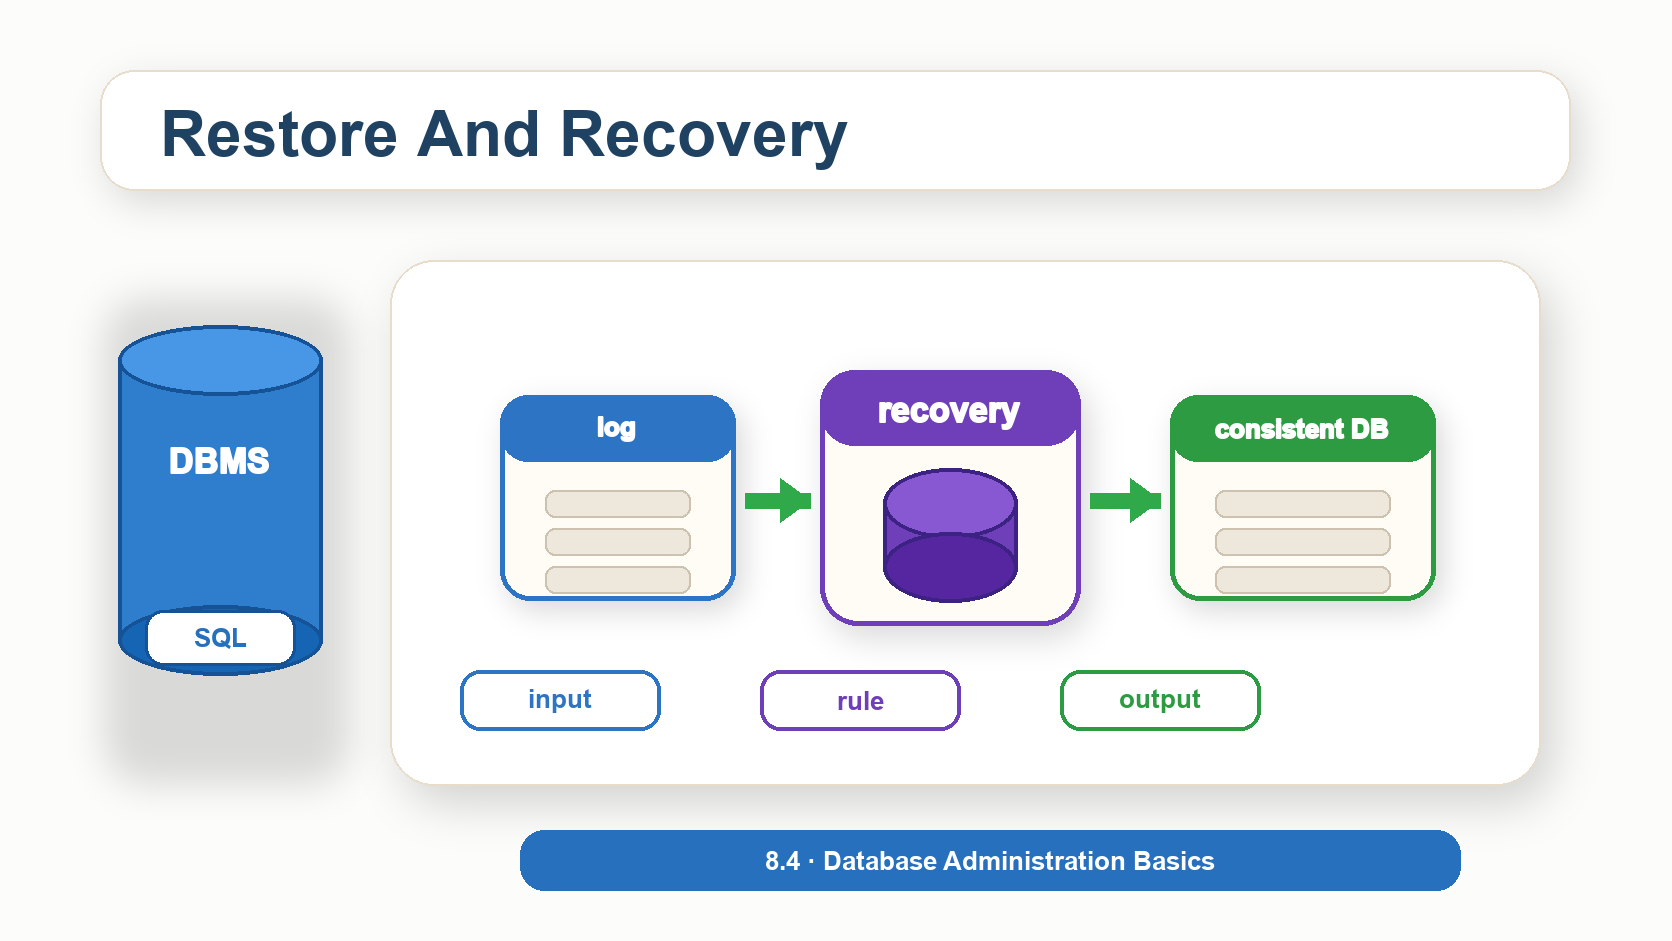
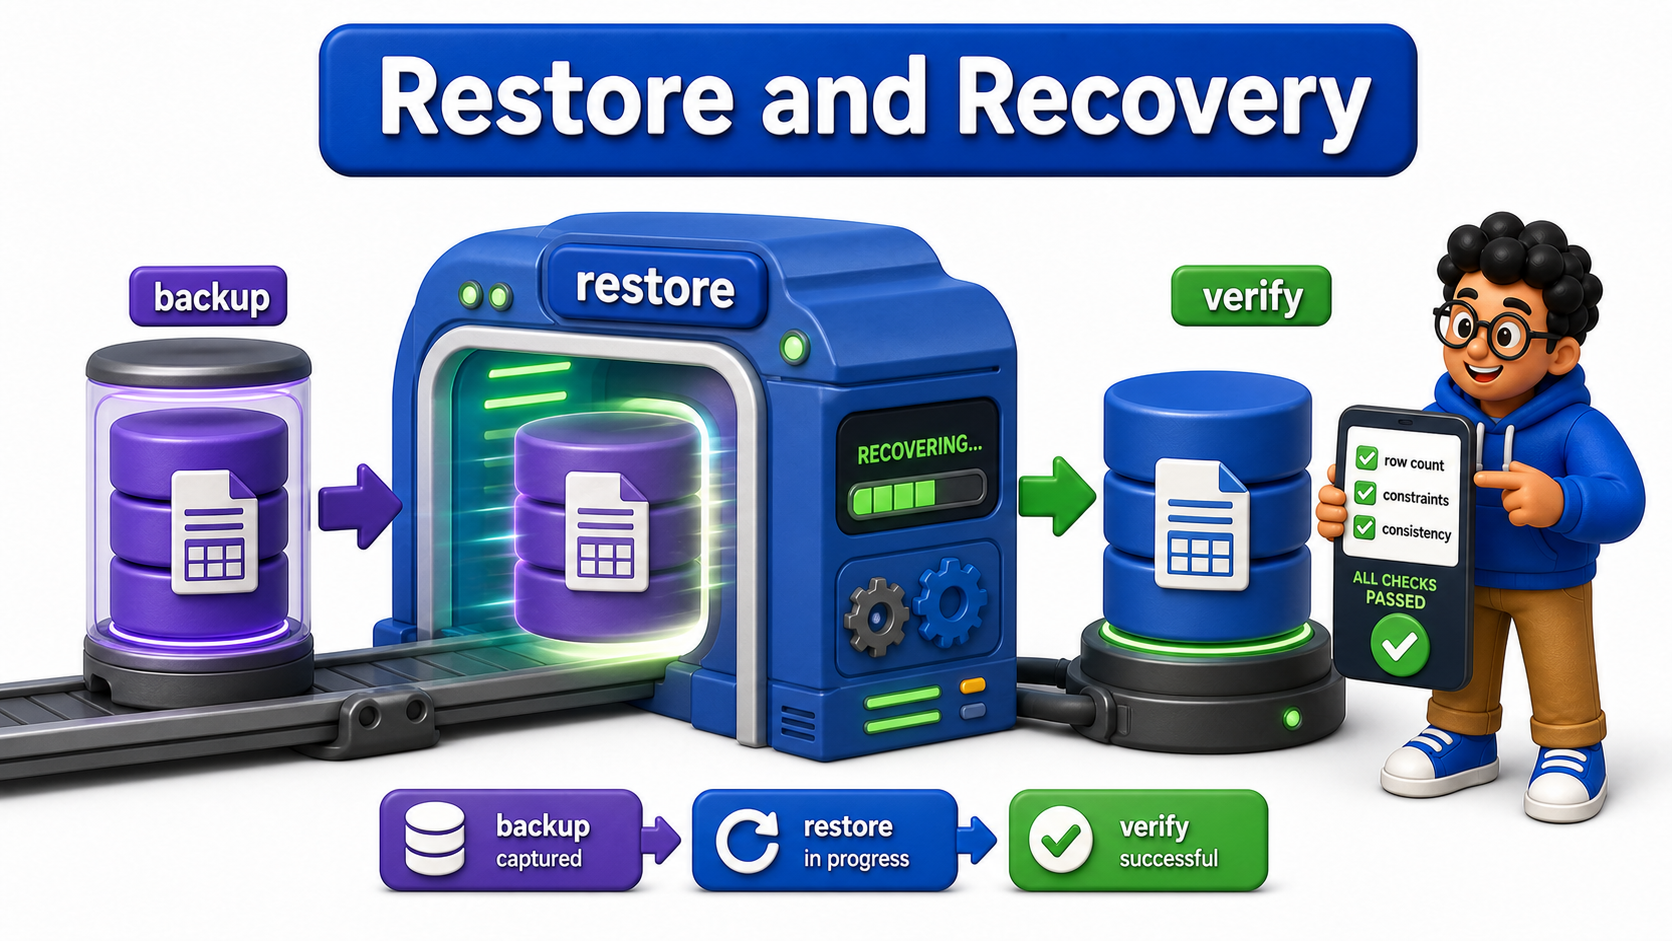
Replace unit 8.4 intro placeholders with actual 3D visuals

diff --git a/content/DBMS_Upload_Chapters/8.4 - Database Administration Basics/02_backup_strategies.md b/content/DBMS_Upload_Chapters/8.4 - Database Administration Basics/02_backup_strategies.md
@@ -6,7 +6,7 @@ The only real defense against losing data entirely is having a separate copy of 
 
 **Definition:** A backup strategy is the deliberate answer to how, how often, and where a database's data is copied somewhere safe, with logical backups like `pg_dump` offering portability and physical backups like `pg_basebackup` offering speed, and full versus incremental approaches trading simplicity against storage and time efficiency, all shaped by how much data loss is actually acceptable and how far back a `restore` might realistically need to reach.
 
-![Intro visual for backup strategies](https://s3.ap-south-1.amazonaws.com/static.bytexl.app/uploads/44sjn9mdv/content/images/02_intro_backup_strategies_clean_8f450529.png)
+![Intro visual for backup strategies](https://s3.ap-south-1.amazonaws.com/static.bytexl.app/uploads/44sjn9mdv/content/images/02_intro_backup_strategies_actual3d_58caf797.png)
 
 ## Logical Backups: A Portable Copy of the Data Itself
 

diff --git a/content/DBMS_Upload_Chapters/8.4 - Database Administration Basics/05_replication_and_read_replicas.md b/content/DBMS_Upload_Chapters/8.4 - Database Administration Basics/05_replication_and_read_replicas.md
@@ -6,7 +6,7 @@ A production system serving real, sustained traffic eventually outgrows what one
 
 **Definition:** Replication streams a primary database's `write-ahead log` to one or more replicas, which replay it to stay continuously in sync, enabling both read scaling, directing tolerant read traffic away from the primary, and availability, standing ready to take over if the primary fails, at the cost of a small, measurable lag that every application using a replica has to account for.
 
-![Intro visual for replication and read replicas](https://s3.ap-south-1.amazonaws.com/static.bytexl.app/uploads/44sjn9mdv/content/images/05_intro_replication_and_read_replicas_clean_20502d58.png)
+![Intro visual for replication and read replicas](https://s3.ap-south-1.amazonaws.com/static.bytexl.app/uploads/44sjn9mdv/content/images/05_intro_replication_and_read_replicas_actual3d_1d3ac4b5.png)
 
 ## How Streaming Replication Works, Conceptually
 

diff --git a/content/DBMS_Upload_Chapters/8.4 - Database Administration Basics/01_database_maintenance.md b/content/DBMS_Upload_Chapters/8.4 - Database Administration Basics/01_database_maintenance.md
@@ -8,7 +8,7 @@ Left unmanaged, this leftover space accumulates, and **database maintenance** is
 
 **Definition:** Because PostgreSQL keeps old row versions around to support concurrent, isolated reads, routine maintenance, reclaiming dead tuple space with `VACUUM` and keeping the optimizer's statistics current with `ANALYZE`, is essential to keeping a database healthy over time, and autovacuum handles this automatically for the large majority of real-world cases without manual intervention.
 
-![Intro visual for database maintenance](https://s3.ap-south-1.amazonaws.com/static.bytexl.app/uploads/44sjn9mdv/content/images/01_intro_database_maintenance_clean_ca5cb3fe.png)
+![Intro visual for database maintenance](https://s3.ap-south-1.amazonaws.com/static.bytexl.app/uploads/44sjn9mdv/content/images/01_intro_database_maintenance_actual3d_34757244.png)
 
 ## Why Updates and Deletes Leave Behind Dead Rows
 

diff --git a/content/DBMS_Upload_Chapters/8.4 - Database Administration Basics/04_database_monitoring.md b/content/DBMS_Upload_Chapters/8.4 - Database Administration Basics/04_database_monitoring.md
@@ -6,7 +6,7 @@ This helps teams respond before users are affected, instead of diagnosing the pr
 
 **Definition:** Continuous monitoring of connection usage, table bloat, cache hit ratio, and long-running or blocked queries turns the diagnostic tools used reactively throughout this course into an early-warning system, catching degrading health before it becomes a full outage, rather than only after users are already affected.
 
-![Intro visual for database monitoring](https://s3.ap-south-1.amazonaws.com/static.bytexl.app/uploads/44sjn9mdv/content/images/04_intro_database_monitoring_clean_0a66a5c3.png)
+![Intro visual for database monitoring](https://s3.ap-south-1.amazonaws.com/static.bytexl.app/uploads/44sjn9mdv/content/images/04_intro_database_monitoring_actual3d_84c2ab0f.png)
 
 ## Watching Connection Usage Over Time
 

diff --git a/content/DBMS_Upload_Chapters/8.4 - Database Administration Basics/03_restore_and_recovery.md b/content/DBMS_Upload_Chapters/8.4 - Database Administration Basics/03_restore_and_recovery.md
@@ -8,7 +8,7 @@
 
 **Definition:** Restoring a backup, whether a logical `restore` reapplying a dump script or a `point-in-time recovery` replaying archived write-ahead logs to an exact moment, is only genuinely useful if it has actually been tested and verified ahead of time, since an unverified backup offers only the appearance of safety rather than the real thing.
 
-![Intro visual for restore and recovery](https://s3.ap-south-1.amazonaws.com/static.bytexl.app/uploads/44sjn9mdv/content/images/03_intro_restore_and_recovery_clean_66d1c378.png)
+![Intro visual for restore and recovery](https://s3.ap-south-1.amazonaws.com/static.bytexl.app/uploads/44sjn9mdv/content/images/03_intro_restore_and_recovery_actual3d_c594ca0c.png)
 
 ## Restoring from a Logical Backup
 

diff --git a/content/DBMS/8 - Going to Production/8.4 - Database Administration Basics/05_replication_and_read_replicas.md b/content/DBMS/8 - Going to Production/8.4 - Database Administration Basics/05_replication_and_read_replicas.md
@@ -20,7 +20,7 @@ ON-IMAGE TEXT: show a short bold title "Replication And Read Replicas" plus only
 GOAL: make the opening idea instantly clear and engaging while matching the existing DBMS reading-material image standards.
 -->
 
-![Intro visual for replication and read replicas](https://s3.ap-south-1.amazonaws.com/static.bytexl.app/uploads/44sjn9mdv/content/images/05_intro_replication_and_read_replicas_clean_20502d58.png)
+![Intro visual for replication and read replicas](https://s3.ap-south-1.amazonaws.com/static.bytexl.app/uploads/44sjn9mdv/content/images/05_intro_replication_and_read_replicas_actual3d_1d3ac4b5.png)
 
 ## How Streaming Replication Works, Conceptually
 

diff --git a/content/DBMS/8 - Going to Production/8.4 - Database Administration Basics/01_database_maintenance.md b/content/DBMS/8 - Going to Production/8.4 - Database Administration Basics/01_database_maintenance.md
@@ -22,7 +22,7 @@ ON-IMAGE TEXT: show a short bold title "Database Maintenance" plus only these fe
 GOAL: make the opening idea instantly clear and engaging while matching the existing DBMS reading-material image standards.
 -->
 
-![Intro visual for database maintenance](https://s3.ap-south-1.amazonaws.com/static.bytexl.app/uploads/44sjn9mdv/content/images/01_intro_database_maintenance_clean_ca5cb3fe.png)
+![Intro visual for database maintenance](https://s3.ap-south-1.amazonaws.com/static.bytexl.app/uploads/44sjn9mdv/content/images/01_intro_database_maintenance_actual3d_34757244.png)
 
 ## Why Updates and Deletes Leave Behind Dead Rows
 

diff --git a/content/DBMS/8 - Going to Production/8.4 - Database Administration Basics/02_backup_strategies.md b/content/DBMS/8 - Going to Production/8.4 - Database Administration Basics/02_backup_strategies.md
@@ -20,7 +20,7 @@ ON-IMAGE TEXT: show a short bold title "Backup Strategies" plus only these few l
 GOAL: make the opening idea instantly clear and engaging while matching the existing DBMS reading-material image standards.
 -->
 
-![Intro visual for backup strategies](https://s3.ap-south-1.amazonaws.com/static.bytexl.app/uploads/44sjn9mdv/content/images/02_intro_backup_strategies_clean_8f450529.png)
+![Intro visual for backup strategies](https://s3.ap-south-1.amazonaws.com/static.bytexl.app/uploads/44sjn9mdv/content/images/02_intro_backup_strategies_actual3d_58caf797.png)
 
 ## Logical Backups: A Portable Copy of the Data Itself
 

diff --git a/content/DBMS/8 - Going to Production/8.4 - Database Administration Basics/03_restore_and_recovery.md b/content/DBMS/8 - Going to Production/8.4 - Database Administration Basics/03_restore_and_recovery.md
@@ -22,7 +22,7 @@ ON-IMAGE TEXT: show a short bold title "Restore And Recovery" plus only these fe
 GOAL: make the opening idea instantly clear and engaging while matching the existing DBMS reading-material image standards.
 -->
 
-![Intro visual for restore and recovery](https://s3.ap-south-1.amazonaws.com/static.bytexl.app/uploads/44sjn9mdv/content/images/03_intro_restore_and_recovery_clean_66d1c378.png)
+![Intro visual for restore and recovery](https://s3.ap-south-1.amazonaws.com/static.bytexl.app/uploads/44sjn9mdv/content/images/03_intro_restore_and_recovery_actual3d_c594ca0c.png)
 
 ## Restoring from a Logical Backup
 

diff --git a/content/DBMS/8 - Going to Production/8.4 - Database Administration Basics/04_database_monitoring.md b/content/DBMS/8 - Going to Production/8.4 - Database Administration Basics/04_database_monitoring.md
@@ -20,7 +20,7 @@ ON-IMAGE TEXT: show a short bold title "Database Monitoring" plus only these few
 GOAL: make the opening idea instantly clear and engaging while matching the existing DBMS reading-material image standards.
 -->
 
-![Intro visual for database monitoring](https://s3.ap-south-1.amazonaws.com/static.bytexl.app/uploads/44sjn9mdv/content/images/04_intro_database_monitoring_clean_0a66a5c3.png)
+![Intro visual for database monitoring](https://s3.ap-south-1.amazonaws.com/static.bytexl.app/uploads/44sjn9mdv/content/images/04_intro_database_monitoring_actual3d_84c2ab0f.png)
 
 ## Watching Connection Usage Over Time
 
